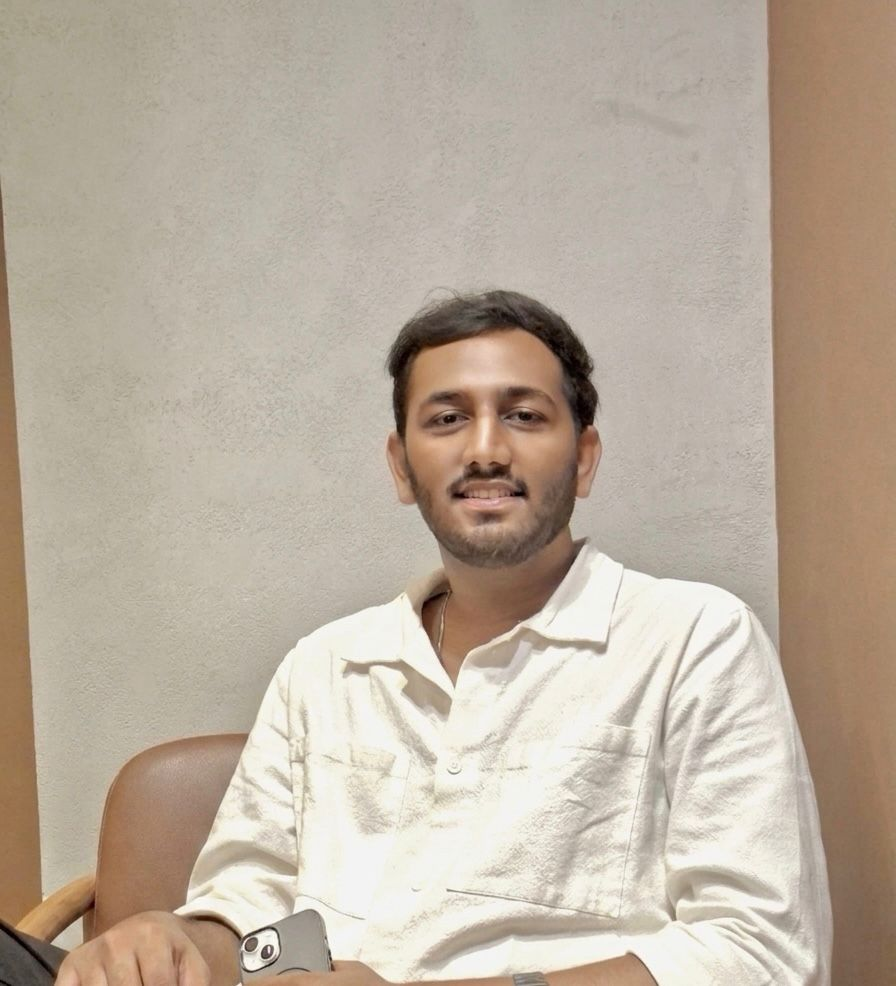
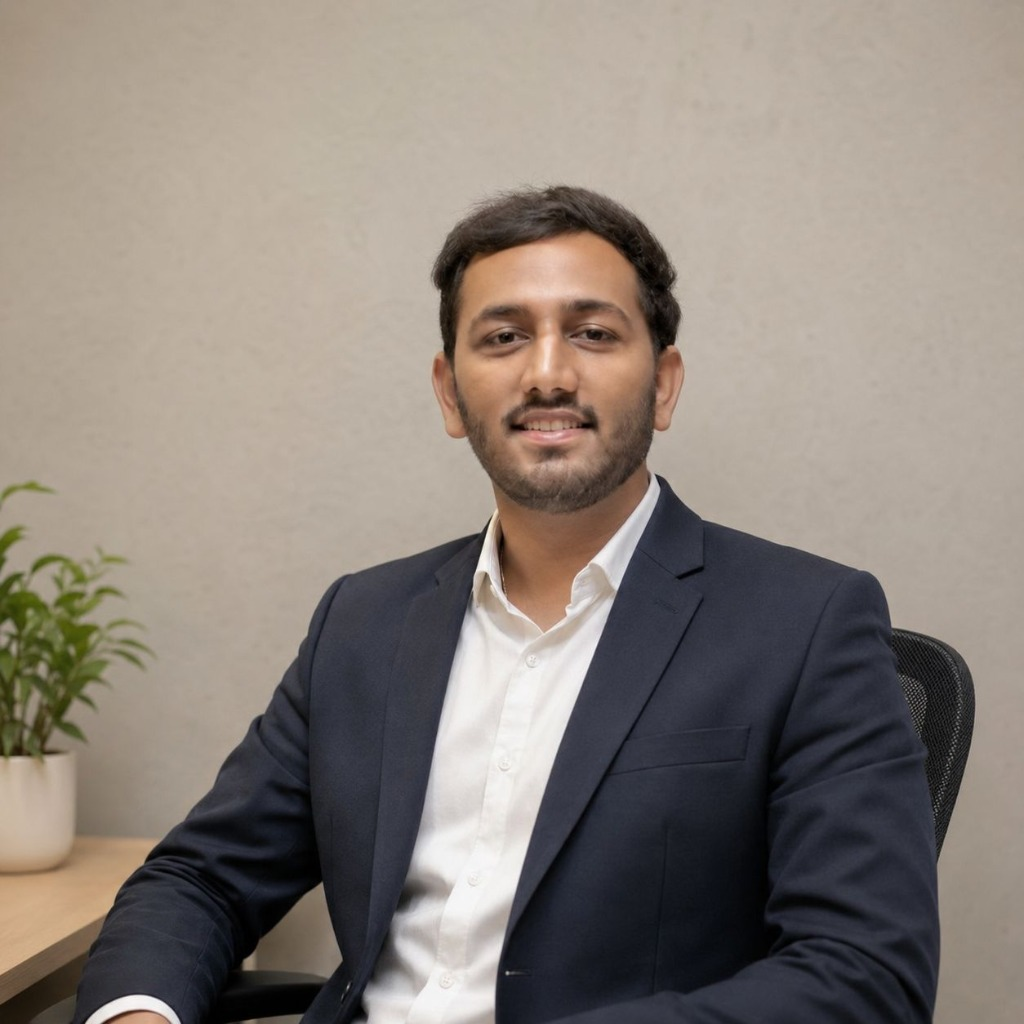
Update about section profile photo - full square display without cropping

diff --git a/components/sections/about.tsx b/components/sections/about.tsx
@@ -45,13 +45,14 @@ export function About() {
               <div className="absolute -inset-4 -z-10 rounded-[2.25rem] bg-gradient-to-br from-brand/30 via-brand-3/20 to-brand-2/20 blur-2xl" />
               {/* gradient frame */}
               <div className="border-gradient relative overflow-hidden rounded-3xl">
-                <div className="relative aspect-[4/5] w-full overflow-hidden rounded-3xl bg-surface">
+                <div className="relative aspect-square w-full overflow-hidden rounded-3xl bg-surface">
                   <Image
                     src={siteConfig.avatar}
                     alt={`${siteConfig.name} — ${siteConfig.role}`}
                     fill
                     sizes="(max-width: 1024px) 90vw, 380px"
                     className="object-cover object-center"
+                    priority
                   />
                   <div className="absolute inset-0 bg-gradient-to-t from-bg/85 via-bg/5 to-transparent" />
                   {/* name plate */}